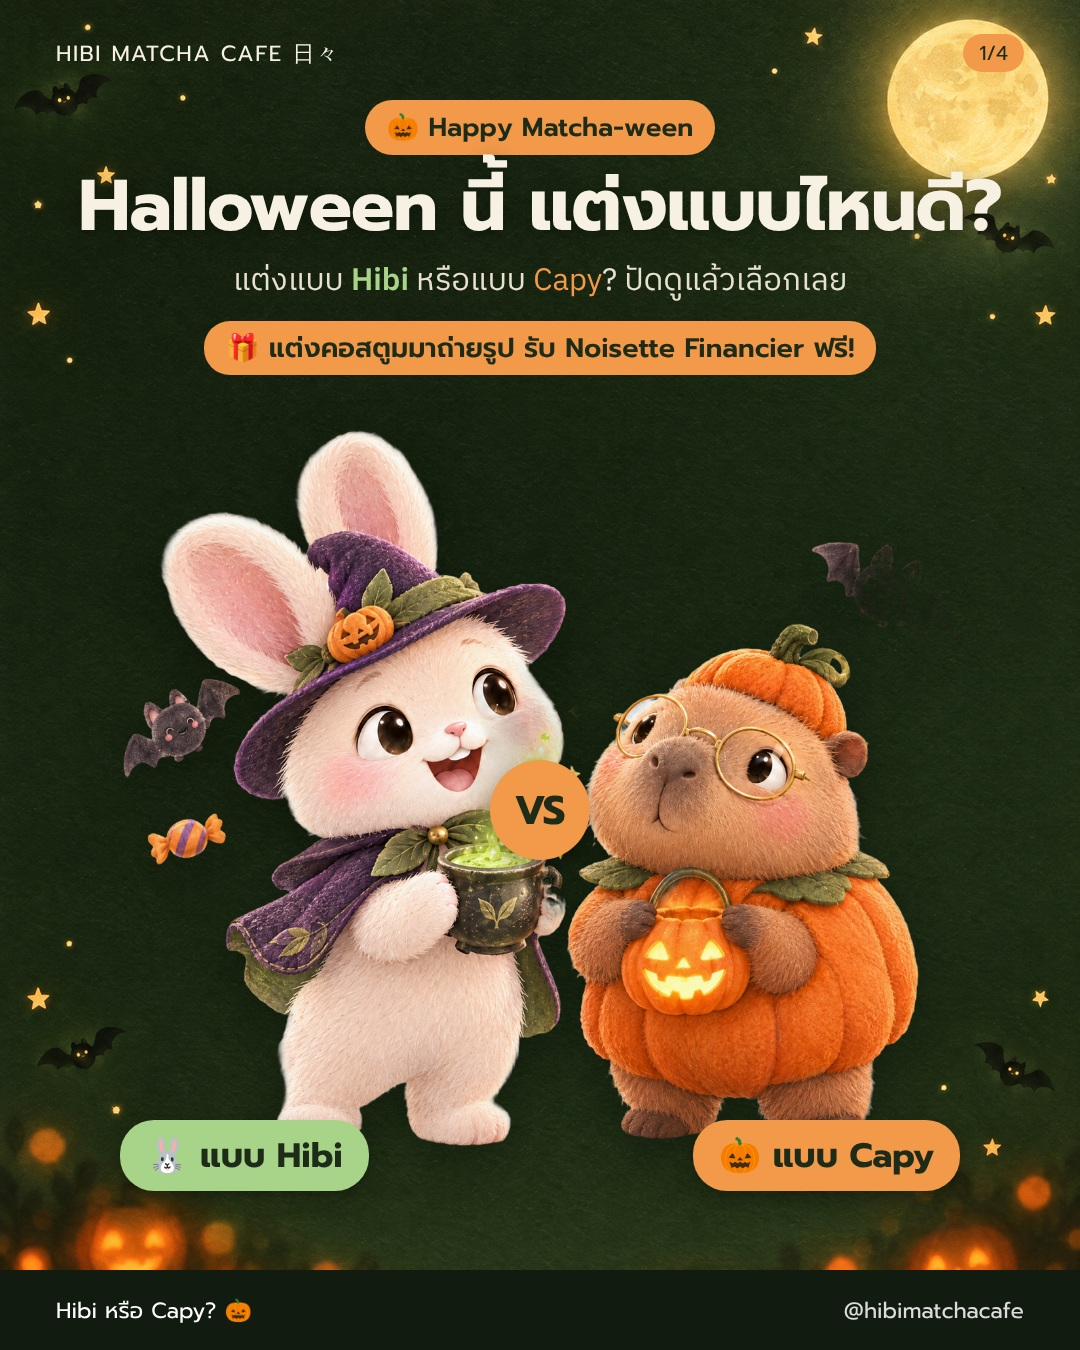
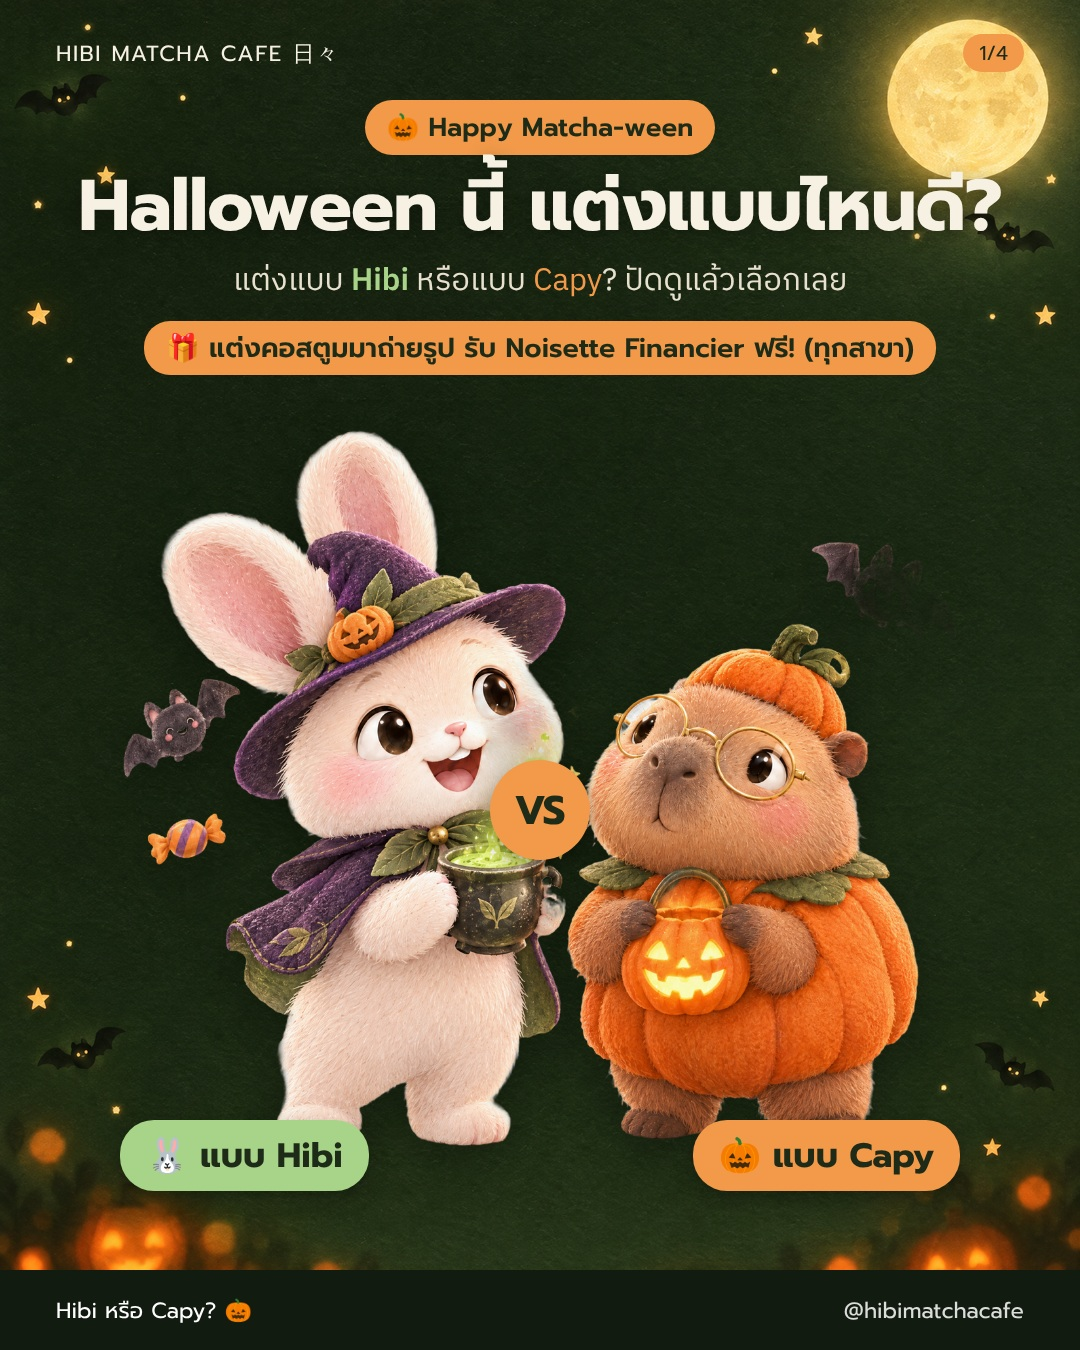
Halloween promo: confirmed conditions (all branches, any drink, tag us)
Claude-Session: https://claude.ai/code/session_019v9CAxCxqD3EqyHWdLwpMA

Changed region(s): [[0.1222, 0.2178, 0.8861, 0.28]]

diff --git a/docs/content-plan/campaigns/halloween-2026/build_slides.py b/docs/content-plan/campaigns/halloween-2026/build_slides.py
@@ -32,7 +32,7 @@ def s1():
 .sw{{position:absolute;right:56px;top:1206px;font-family:'Prompt';font-weight:600;font-size:24px;color:{ORANGE}}}"""
     body = f"""<div class="w"><span class="chip">🎃 Happy Matcha-ween</span>
 <div class="h1 t">Halloween นี้ แต่งแบบไหนดี?</div><div class="s">แต่งแบบ <b>Hibi</b> หรือแบบ <i>Capy</i>? ปัดดูแล้วเลือกเลย</div>
-<div class="promo">🎁 แต่งคอสตูมมาถ่ายรูป รับ Noisette Financier ฟรี!</div></div>
+<div class="promo">🎁 แต่งคอสตูมมาถ่ายรูป รับ Noisette Financier ฟรี! (ทุกสาขา)</div></div>
 <img class="art" src="{A('art_duo')}" style="left:110px;top:430px;width:860px;height:720px;object-fit:contain">
 <div class="vs">VS</div>
 <div class="lb" style="left:120px;background:{LEAF};color:{NIGHT}">🐰 แบบ Hibi</div>
@@ -90,15 +90,15 @@ def s4():
 .br{{position:absolute;top:972px;left:48px;right:48px;background:rgba(18,27,15,.85);border:2px solid #3d5530;border-radius:26px;padding:18px 24px;text-align:center}}
 .br .t2{{font-family:'Prompt';font-weight:600;font-size:26px}}.br .l{{font-size:21px;margin-top:6px;line-height:1.5;color:#e8e1cf}}
 .note{{position:absolute;top:1170px;left:0;right:0;text-align:center;font-size:19px;color:#cfc6b2}}"""
-    body = f"""<div class="w"><div class="h1 t">แต่งคอสตูมมา <em>รับขนมฟรี!</em> 🎁</div><span class="dt">📅 เสาร์ 31 ต.ค.</span></div>
+    body = f"""<div class="w"><div class="h1 t">แต่งคอสตูมมา <em>รับขนมฟรี!</em> 🎁</div><span class="dt">📅 เสาร์ 31 ต.ค. · ทุกสาขา</span></div>
 <div class="pc"><div class="gr"><div class="fi"><img src="{A('financier', 700)}"></div>
 <div class="gift">ถ่ายรูปคู่ชุดคอสตูม<br>ฮาโลวีน รับฟรี<b>Noisette<br>Financier 1 ชิ้น</b></div></div>
-<div class="st"><div class="i"><div class="n">1</div><div class="e">🧙</div><div class="x">แต่งคอสตูม<br>ธีมฮาโลวีนมาร้าน</div></div>
-<div class="i"><div class="n">2</div><div class="e">📸</div><div class="x">ถ่ายรูปคู่<br>แก้ว Hibi</div></div>
-<div class="i"><div class="n">3</div><div class="e">🎁</div><div class="x">โชว์รูปกับพนักงาน<br>รับขนมฟรี</div></div></div></div>
-<div class="ask"><div class="k">แท็ก @hibimatchacafe #HibiMatchaween · คอมเมนต์โหวต 👇</div><div class="v">แต่งแบบ Hibi 🐰 หรือ Capy 🎃?</div></div>
+<div class="st"><div class="i"><div class="n">1</div><div class="e">🧙🥤</div><div class="x">แต่งคอสตูมมา<br>ซื้อเครื่องดื่มเมนูไหนก็ได้</div></div>
+<div class="i"><div class="n">2</div><div class="e">📸</div><div class="x">ถ่ายรูปคู่แก้ว<br>แท็ก @hibimatchacafe</div></div>
+<div class="i"><div class="n">3</div><div class="e">🎁</div><div class="x">โชว์โพสต์กับพนักงาน<br>รับขนมฟรี</div></div></div></div>
+<div class="ask"><div class="k">ใส่ #HibiMatchaween ด้วยนะ · คอมเมนต์โหวต 👇</div><div class="v">แต่งแบบ Hibi 🐰 หรือ Capy 🎃?</div></div>
 <div class="br"><div class="t2">📍 Hibi Matcha Cafe 5 สาขา</div><div class="l">ลาดพร้าว 107 · นาคนิวาส 48 · สะพานควาย · นวมินทร์ 111 · สามย่าน (จุฬาฯ 11)</div></div>
-<div class="note">*1 ท่าน / 1 ชิ้น · เงื่อนไขเป็นไปตามที่ร้านกำหนด</div>"""
+<div class="note">*รับฟรี 1 ชิ้น / 1 ท่าน เมื่อซื้อเครื่องดื่มเมนูใดก็ได้ · ร่วมรายการทุกสาขา</div>"""
     return page(4, body, css)
 
 for n, html in enumerate([s1(), s2(), s3(), s4()], 1):
